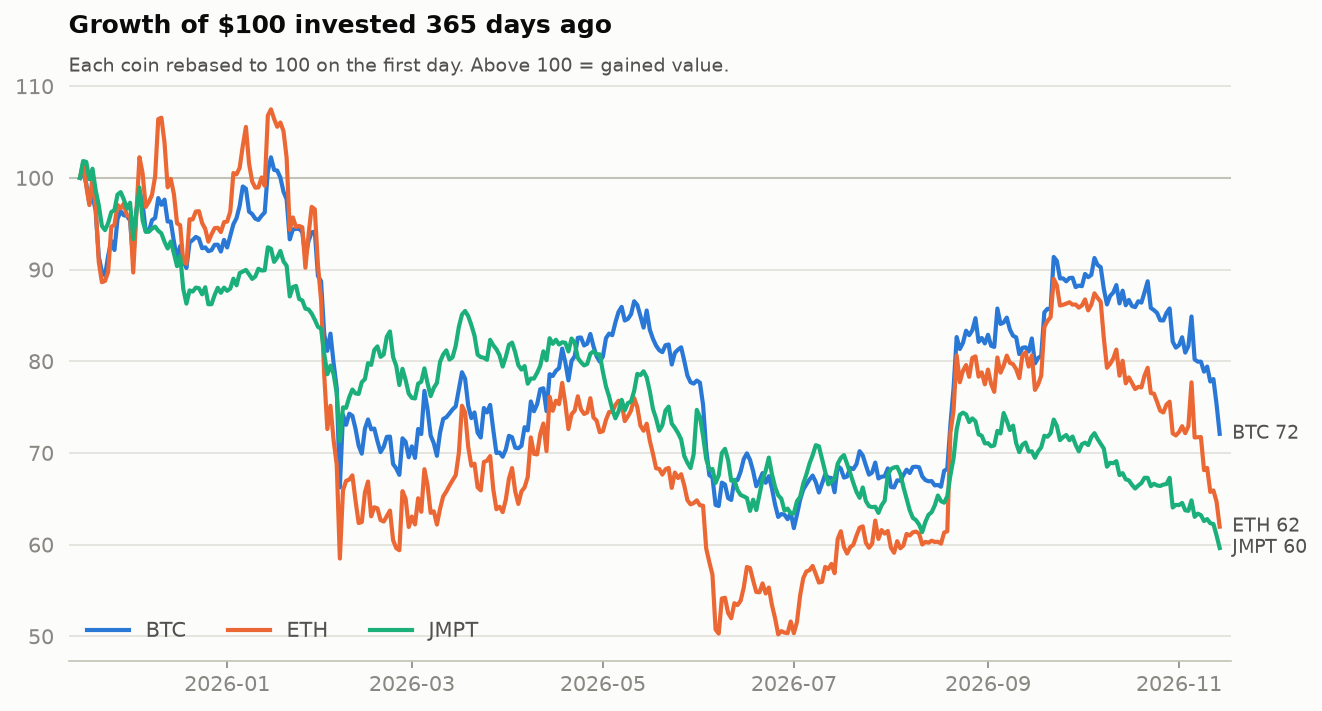
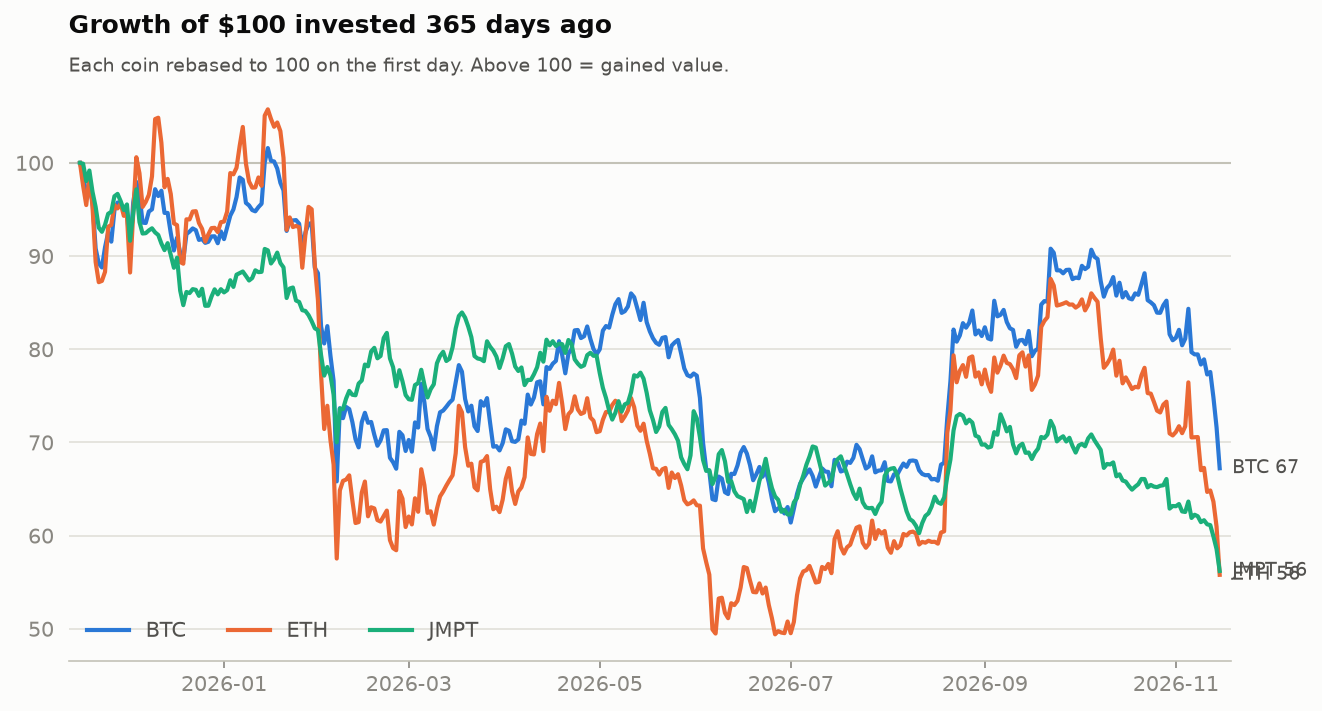
data: market update 2026-11-15

diff --git a/README.md b/README.md
@@ -9,13 +9,13 @@ The project compares two of the largest cryptocurrencies with a small-cap token:
 ## Latest stats
 
 <!-- STATS:START -->
-_Snapshot as of **2026-11-14 00:00 UTC**. Updated automatically every day._
+_Snapshot as of **2026-11-15 00:00 UTC**. Updated automatically every day._
 
 | Coin | Price | 1 day | 7 days | 30 days | 1 year | Volatility (30d) | Market cap |
 |:--|--:|--:|--:|--:|--:|--:|--:|
-| **BTC** Bitcoin | $68,314 | ▼ -4.3% | ▼ -9.8% | ▼ -16.3% | ▼ -31.3% | 39% | $1.37T |
-| **ETH** Ethereum | $1,932 | ▼ -4.2% | ▼ -13.6% | ▼ -20.1% | ▼ -40.1% | 50% | $236.16B |
-| **JMPT** JumpToken | $0.48 | ▼ -2.3% | ▼ -5.9% | ▼ -11.2% | ▼ -40.6% | 25% | $7.08M |
+| **BTC** Bitcoin | $64,120 | ▼ -6.1% | ▼ -15.4% | ▼ -22.0% | ▼ -32.3% | 43% | $1.29T |
+| **ETH** Ethereum | $1,768 | ▼ -8.5% | ▼ -20.9% | ▼ -27.5% | ▼ -43.3% | 57% | $216.14B |
+| **JMPT** JumpToken | $0.4607 | ▼ -4.0% | ▼ -9.5% | ▼ -14.6% | ▼ -42.8% | 28% | $6.80M |
 <!-- STATS:END -->
 
 ## Charts
